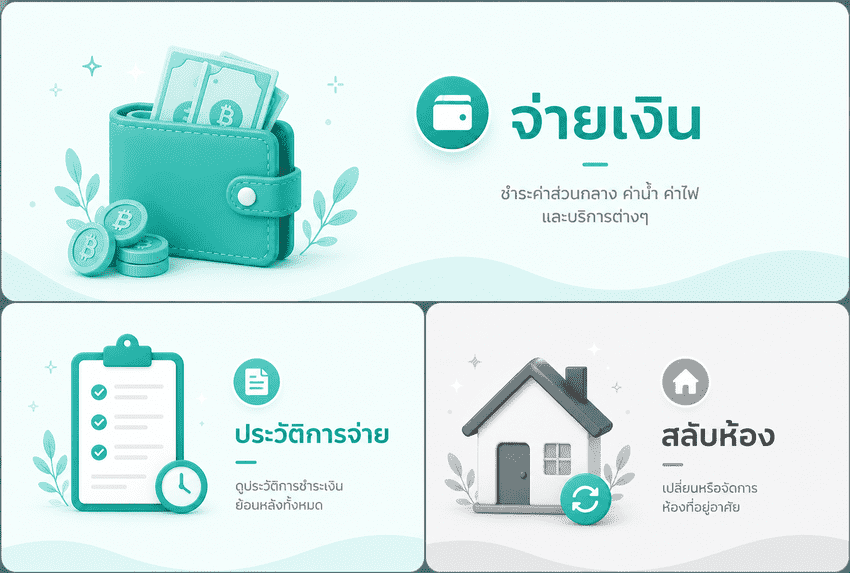
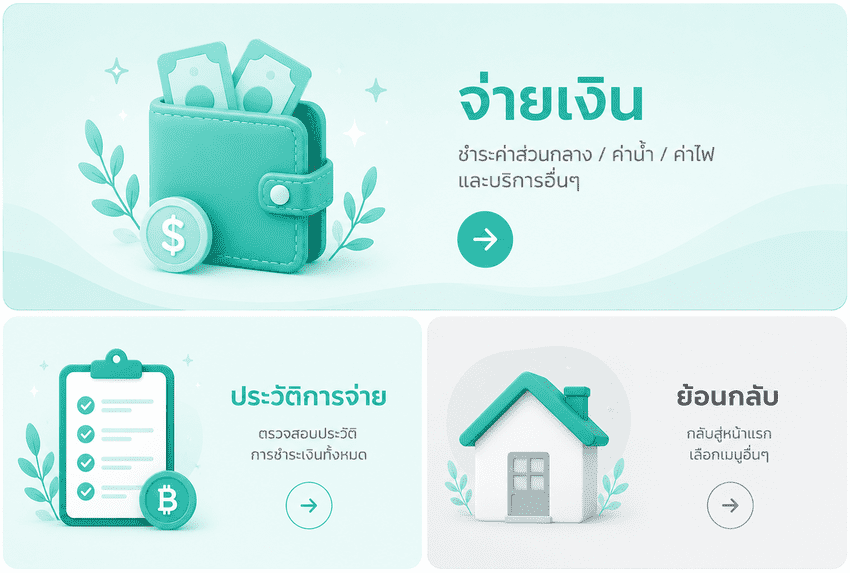
feat: implement room management system with Prisma schema, active room tracking, and dynamic LINE rich menu switching

diff --git a/src/modules/line/handlers/richmenu.handler.js b/src/modules/line/handlers/richmenu.handler.js
@@ -1,7 +1,7 @@
 import prisma from "../../../config/database.js";
 import { RICH_MENU } from "../../../constants/richmenu.js";
 import {
-  ROOM_SWITCH_BACK, ROOM_NOT_FOUND, NO_ROOMS,
+  ROOM_SWITCH_BACK, ROOM_NOT_FOUND, NO_ROOMS, ROOM_LEFT,
   welcomeManager, welcomeMember,
   LABEL_PROMPTPAY, LABEL_ROLE_MANAGER, LABEL_ROLE_MEMBER,
   BTN_SELECT_ROOM, ALT_ROOM_LIST, displaySelectingRoom
@@ -9,13 +9,23 @@ import {
 
 export async function handleSwitchRoom(event, lineClient) {
   const userId = event.source.userId;
+  const user = await prisma.user.findUnique({ where: { lineUid: userId } });
+  if (!user) return;
+
+  if (user.activeRoomId) {
+    await prisma.user.update({
+      where: { lineUid: userId },
+      data: { activeRoomId: null }
+    });
+  }
+
   await lineClient.linkRichMenuIdToUser(userId, RICH_MENU.SELECT);
 
   return lineClient.replyMessage({
     replyToken: event.replyToken,
     messages: [{
       type: 'text',
-      text: ROOM_SWITCH_BACK
+      text: user.activeRoomId ? ROOM_LEFT : ROOM_SWITCH_BACK
     }]
   });
 }
@@ -39,6 +49,11 @@ export async function handleSelectRoom(event, lineClient) {
   const user = await prisma.user.findUnique({ where: { lineUid: userId } });
   if (!user) return;
 
+  await prisma.user.update({
+    where: { lineUid: userId },
+    data: { activeRoomId: roomId }
+  });
+
   const isManager = room.managerId === user.id;
 
   if (isManager) {
@@ -58,6 +73,25 @@ export async function handleSelectRoom(event, lineClient) {
     messages: [{
       type: 'text',
       text: welcomeMember(room.name)
+    }]
+  });
+}
+
+export async function handleLeaveRoom(event, lineClient) {
+  const userId = event.source.userId;
+
+  await prisma.user.update({
+    where: { lineUid: userId },
+    data: { activeRoomId: null }
+  });
+
+  await lineClient.linkRichMenuIdToUser(userId, RICH_MENU.SELECT);
+
+  return lineClient.replyMessage({
+    replyToken: event.replyToken,
+    messages: [{
+      type: 'text',
+      text: ROOM_LEFT
     }]
   });
 }

diff --git a/src/modules/auth/auth.service.js b/src/modules/auth/auth.service.js
@@ -1,3 +1,4 @@
+import prisma from "../../config/database.js";
 import { generateToken } from "../../utils/generateToken.js";
 import { lineClient } from "../line/line.service.js";
 import { RICH_MENU } from "../../constants/richmenu.js";
@@ -22,6 +23,21 @@ export async function loginWithLine({ lineUid, displayName, pictureUrl }) {
 
 export async function syncUser({ line_uid, name, profile_url, action }) {
   const user = await authRepo.upsertByLineUid(line_uid, { displayName: name, pictureUrl: profile_url });
+
+  if (user.activeRoomId) {
+    const room = await prisma.room.findUnique({ where: { id: user.activeRoomId } });
+    if (room) {
+      const menu = room.managerId === user.id ? RICH_MENU.MANAGER : RICH_MENU.MEMBER;
+      await lineClient.linkRichMenuIdToUser(line_uid, menu);
+      return {
+        id: user.id,
+        lineUid: user.lineUid,
+        displayName: user.displayName,
+        pictureUrl: user.pictureUrl,
+        role: user.role,
+      };
+    }
+  }
 
   if (action === "create_room") {
     await lineClient.linkRichMenuIdToUser(line_uid, RICH_MENU.MANAGER);

diff --git a/src/constants/richmenu.js b/src/constants/richmenu.js
@@ -1,6 +1,6 @@
 // Rich Menu IDs — อัปเดตหลังจากรัน scripts/setup-richmenu.js
 export const RICH_MENU = {
-  SELECT: 'richmenu-ebbee230009f9fa605227e4a2b699533',
-  MEMBER: 'richmenu-4a6c71c90fc1956d779feaa3ab5ab70f',
-  MANAGER: 'richmenu-20fcf816181a7d0ae21007c539145407',
+  SELECT: 'richmenu-490ab4febd78783e8a567547d9f53ad3',
+  MEMBER: 'richmenu-c0d006740ef1f5e4846f4778e76b04d9',
+  MANAGER: 'richmenu-35501cf76540a4b8e0a90569a1501149',
 };

diff --git a/src/modules/line/handlers/postback.handler.js b/src/modules/line/handlers/postback.handler.js
@@ -1,5 +1,5 @@
 import prisma from "../../../config/database.js";
-import { handleSwitchRoom, handleSelectRoom } from "./richmenu.handler.js";
+import { handleSwitchRoom, handleSelectRoom, handleLeaveRoom } from "./richmenu.handler.js";
 import { handleShowPeriods } from "./text.handler.js";
 import { PERIOD_NOT_FOUND, paymentDetail, SEND_SLIP_PROMPT, NO_MEMBERSHIP } from "../../../constants/messages.js";
 
@@ -19,6 +19,10 @@ export async function handlePostback(event, lineClient) {
 
   if (action === 'select_room') {
     return handleSelectRoom(event, lineClient);
+  }
+
+  if (action === 'leave_room') {
+    return handleLeaveRoom(event, lineClient);
   }
 
   if (action === 'pay') {